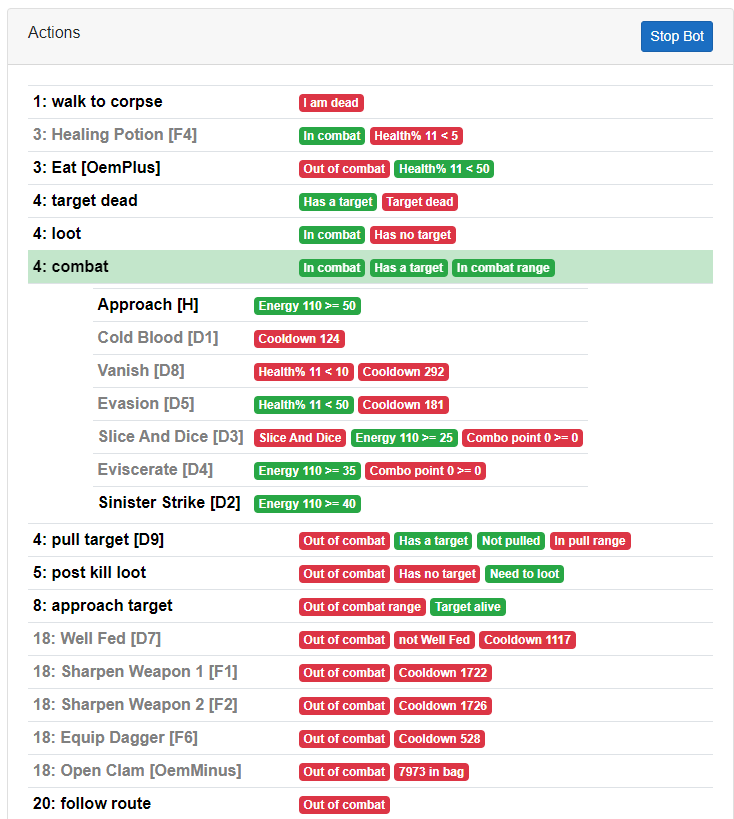
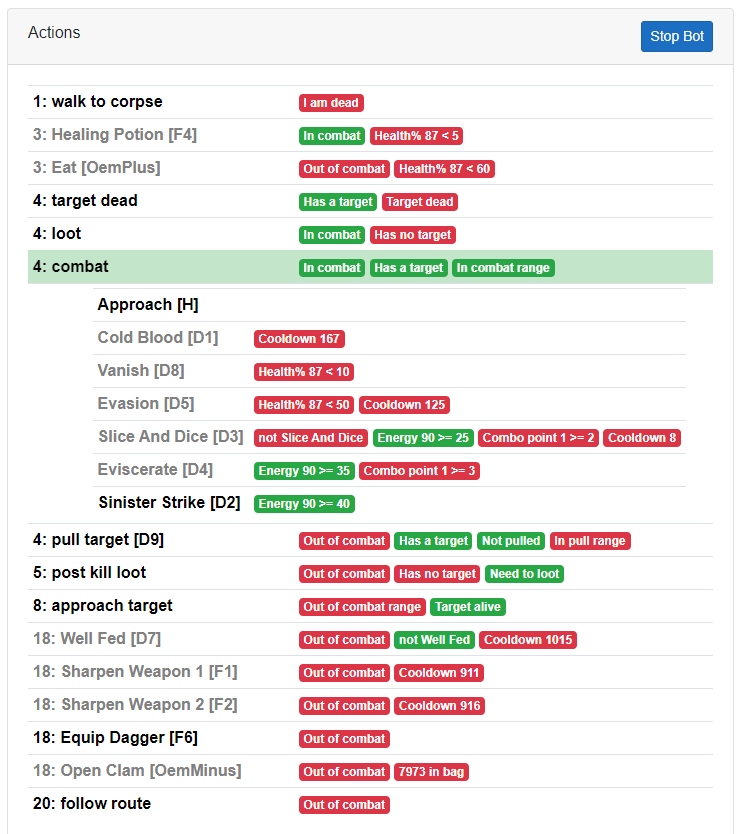
Update readme

Changed region(s): [[0.03, 0.0305, 1.0, 1.0], [0.03, 0.0305, 0.1199, 0.0611]]

diff --git a/README.md b/README.md
@@ -1,19 +1,20 @@
 # MasterOfPuppets - World of Warcraft Classic Grind Bot 
 
-Star * this repo if you think it might be useful to you or other coders.
+Star * this repo if you think it is awesone... or maybe just vaguely useful !
 
-- Uses an Addon to read the game state. 
+- Uses a modified version of the addon: https://github.com/FreeHongKongMMO/Happy-Pixels to read the game state.
 
 - Uses Blazor Server to show the bot state in a browser, and so can be monitored from your phone or a tablet while you do something else.
 https://docs.microsoft.com/en-us/aspnet/core/blazor
 
-- No DLL injection or memory watching, just screen capture and mouse and keyboard clicking.
+- No DLL injection or memory watching, just screen capture, mouse and keyboard clicking.
 
-- All classes except Hunter are possible.
+- Written from scratch in C#.
+
+- All classes are working except Hunter.
 
 ![Screenshot](https://raw.githubusercontent.com/julianperrott/WowClassicGrindBot/master/images/Screenshot.png)
 
-Uses a modified version of the addon: https://github.com/FreeHongKongMMO/Happy-Pixels
 
 # Getting it working
 
